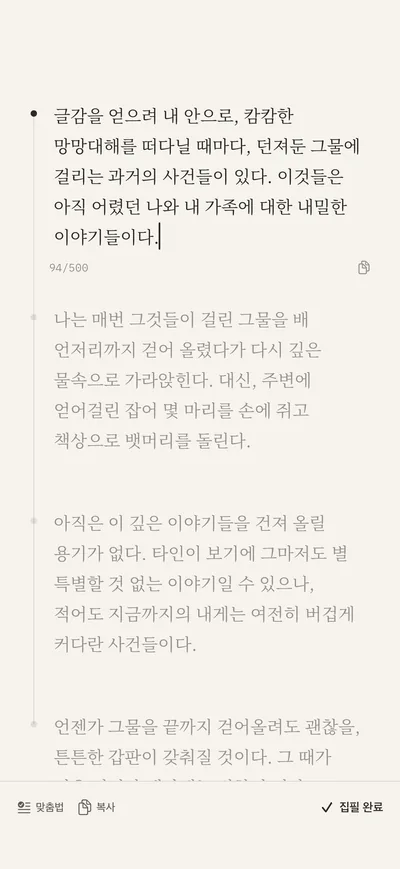
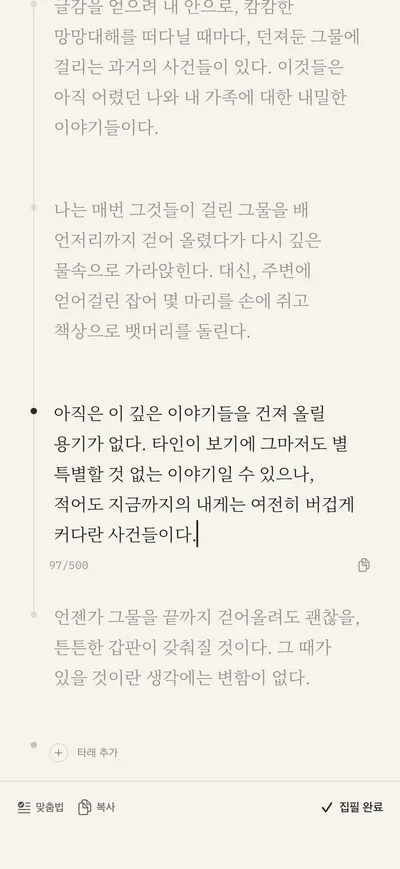
Fill the centre screen with the editor, top to bottom
The writing shot now starts mid-post: earlier threads fill the top of
the frame, the thread being written sits low with the caret at its end,
and the bottom holds only the button row, no keyboard (owner's call).
The first line of text is no longer painted over, since writing mode has
no status bar to remove.

diff --git a/index.html b/index.html
@@ -50,7 +50,7 @@
   <div class="spread">
     <figure class="phone outer"><picture><source media="(prefers-color-scheme: dark)" srcset="/assets/screens/memo-dark-400.webp?v=0bc282d9c6 400w, /assets/screens/memo-dark-800.webp?v=0fd58112ab 800w" sizes="(max-width: 899px) 64vw, 300px" /><img src="/assets/screens/memo-light-800.webp?v=ad2d2020bb" srcset="/assets/screens/memo-light-400.webp?v=3f6159a638 400w, /assets/screens/memo-light-800.webp?v=ad2d2020bb 800w" sizes="(max-width: 899px) 64vw, 300px" width="800" height="1738" alt="처음에 적어둔 글감 메모가 위에 남아 있고, 그 아래로 타래가 이어지는 화면" loading="lazy" decoding="async" /></picture><figcaption>글감이 작품으로</figcaption></figure>
     <figure class="phone inner"><picture><source media="(prefers-color-scheme: dark)" srcset="/assets/screens/overflow-dark-400.webp?v=5c103b5d04 400w, /assets/screens/overflow-dark-800.webp?v=9f0f351f02 800w" sizes="(max-width: 899px) 64vw, 300px" /><img src="/assets/screens/overflow-light-800.webp?v=278e160e94" srcset="/assets/screens/overflow-light-400.webp?v=8f2f8dd469 400w, /assets/screens/overflow-light-800.webp?v=278e160e94 800w" sizes="(max-width: 899px) 64vw, 300px" width="800" height="1738" alt="500자를 넘긴 타래 — 넘친 부분에만 옅은 붉은 밑칠이 깔리고 631/500이 표시된 화면" loading="lazy" decoding="async" /></picture><figcaption>Threads 최적화</figcaption></figure>
-    <figure class="phone center"><picture><source media="(prefers-color-scheme: dark)" srcset="/assets/screens/writing-dark-400.webp?v=12dfd64b80 400w, /assets/screens/writing-dark-800.webp?v=6a1b524465 800w" sizes="(max-width: 899px) 64vw, 300px" /><img src="/assets/screens/writing-light-800.webp?v=08abd1ac7c" srcset="/assets/screens/writing-light-400.webp?v=f98a6a168f 400w, /assets/screens/writing-light-800.webp?v=08abd1ac7c 800w" sizes="(max-width: 899px) 64vw, 300px" width="800" height="1738" alt="작성 모드 — 쓰고 있는 타래만 또렷하고 나머지는 흐리게 가라앉은 Rapt 화면" decoding="async" /></picture><figcaption>몰입을 위한 UI</figcaption></figure>
+    <figure class="phone center"><picture><source media="(prefers-color-scheme: dark)" srcset="/assets/screens/writing-dark-400.webp?v=cf1799c451 400w, /assets/screens/writing-dark-800.webp?v=02f117a0d6 800w" sizes="(max-width: 899px) 64vw, 300px" /><img src="/assets/screens/writing-light-800.webp?v=69e1aefa5f" srcset="/assets/screens/writing-light-400.webp?v=9f08f3e4a5 400w, /assets/screens/writing-light-800.webp?v=69e1aefa5f 800w" sizes="(max-width: 899px) 64vw, 300px" width="800" height="1738" alt="작성 모드 — 쓰고 있는 타래만 또렷하고 나머지는 흐리게 가라앉은 Rapt 화면" decoding="async" /></picture><figcaption>몰입을 위한 UI</figcaption></figure>
     <figure class="phone inner"><picture><source media="(prefers-color-scheme: dark)" srcset="/assets/screens/spellcheck-dark-400.webp?v=11992d49d5 400w, /assets/screens/spellcheck-dark-800.webp?v=9c15a6dc75 800w" sizes="(max-width: 899px) 64vw, 300px" /><img src="/assets/screens/spellcheck-light-800.webp?v=f28140eae0" srcset="/assets/screens/spellcheck-light-400.webp?v=96433c1d3a 400w, /assets/screens/spellcheck-light-800.webp?v=f28140eae0 800w" sizes="(max-width: 899px) 64vw, 300px" width="800" height="1738" alt="맞춤법 검사 결과 — 고칠 곳마다 원래 표기와 제안, 반영하기 버튼이 놓인 화면" loading="lazy" decoding="async" /></picture><figcaption>편리한 교정</figcaption></figure>
     <figure class="phone outer"><picture><source media="(prefers-color-scheme: dark)" srcset="/assets/screens/publish-dark-400.webp?v=4913087d8d 400w, /assets/screens/publish-dark-800.webp?v=2b2d60b119 800w" sizes="(max-width: 899px) 64vw, 300px" /><img src="/assets/screens/publish-light-800.webp?v=e96a27f8af" srcset="/assets/screens/publish-light-400.webp?v=b985b9c816 400w, /assets/screens/publish-light-800.webp?v=e96a27f8af 800w" sizes="(max-width: 899px) 64vw, 300px" width="800" height="1738" alt="Threads 발행 화면 — 네 개 포스트가 모두 발행되었고 아래에 열기 버튼이 있는 화면" loading="lazy" decoding="async" /></picture><figcaption>즉각적인 발행</figcaption></figure>
   </div>
